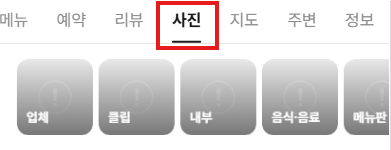
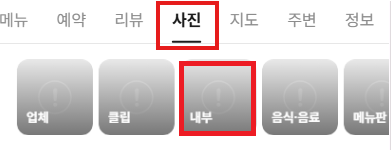
GDFSDFDAS

Changed region(s): [[0.4604, 0.4, 0.6752, 0.9067]]

diff --git a/test_following.html b/test_following.html
@@ -314,7 +314,7 @@
             </div>
             <div style="height:320px;border-radius:8px;overflow:hidden;border:1px solid #e5e7eb;
               display:flex;align-items:center;justify-content:center;background:#fff;">
-              <img src="https://raw.githubusercontent.com/unembabo/images/main/review.png"
+              <img src="https://raw.githubusercontent.com/unembabo/images/main/review2.png"
                 style="width:100%;height:100%;object-fit:cover;object-position:top left;">
             </div>
           </div>
@@ -324,7 +324,7 @@
 
             <div>
               <div style="font-size:12px;font-weight:700;color:#334155;margin-bottom:4px;">
-                [플레이스 사진 탭]
+                [사진탭- 내부버튼]
               </div>
               <div style="height:124px;border-radius:8px;overflow:hidden;border:1px solid #e5e7eb;
                   display:flex;align-items:center;justify-content:center;background:#fff;">
@@ -335,7 +335,7 @@
 
             <div>
               <div style="font-size:12px;font-weight:700;color:#334155;margin-bottom:4px;">
-                플레이스 지도 탭
+                [길찾기- 추천거리]
               </div>
               <div style="height:124px;border-radius:8px;overflow:hidden;border:1px solid #e5e7eb;
                   display:flex;align-items:center;justify-content:center;background:#fff;">
@@ -350,21 +350,11 @@
         <!-- 아래 추가 2열 -->
         <div class="mission-grid" style="display:grid;grid-template-columns:repeat(2, 1fr);gap:12px;margin-top:12px;">
 
-          <div>
-            <div style="font-size:12px;font-weight:700;color:#334155;margin-bottom:4px;">
-              플레이스 주변 탭
-            </div>
-            <div style="height:150px;border-radius:8px;overflow:hidden;border:1px solid #e5e7eb;
-                display:flex;align-items:center;justify-content:center;background:#fff;">
-              <img src="https://raw.githubusercontent.com/unembabo/images/main/narrow.png"
-                style="max-width:100%;max-height:100%;object-fit:contain;">
-            </div>
-          </div>
 
 
           <div>
             <div style="font-size:12px;font-weight:700;color:#334155;margin-bottom:4px;">
-              공유 버튼을 눌러서 URL 복사
+              [공유하기- URL복사버튼]
             </div>
             <div style="height:150px;border-radius:8px;overflow:hidden;border:1px solid #e5e7eb;
                 display:flex;flex-direction:column;align-items:center;justify-content:center;gap:8px;background:#fff;">
